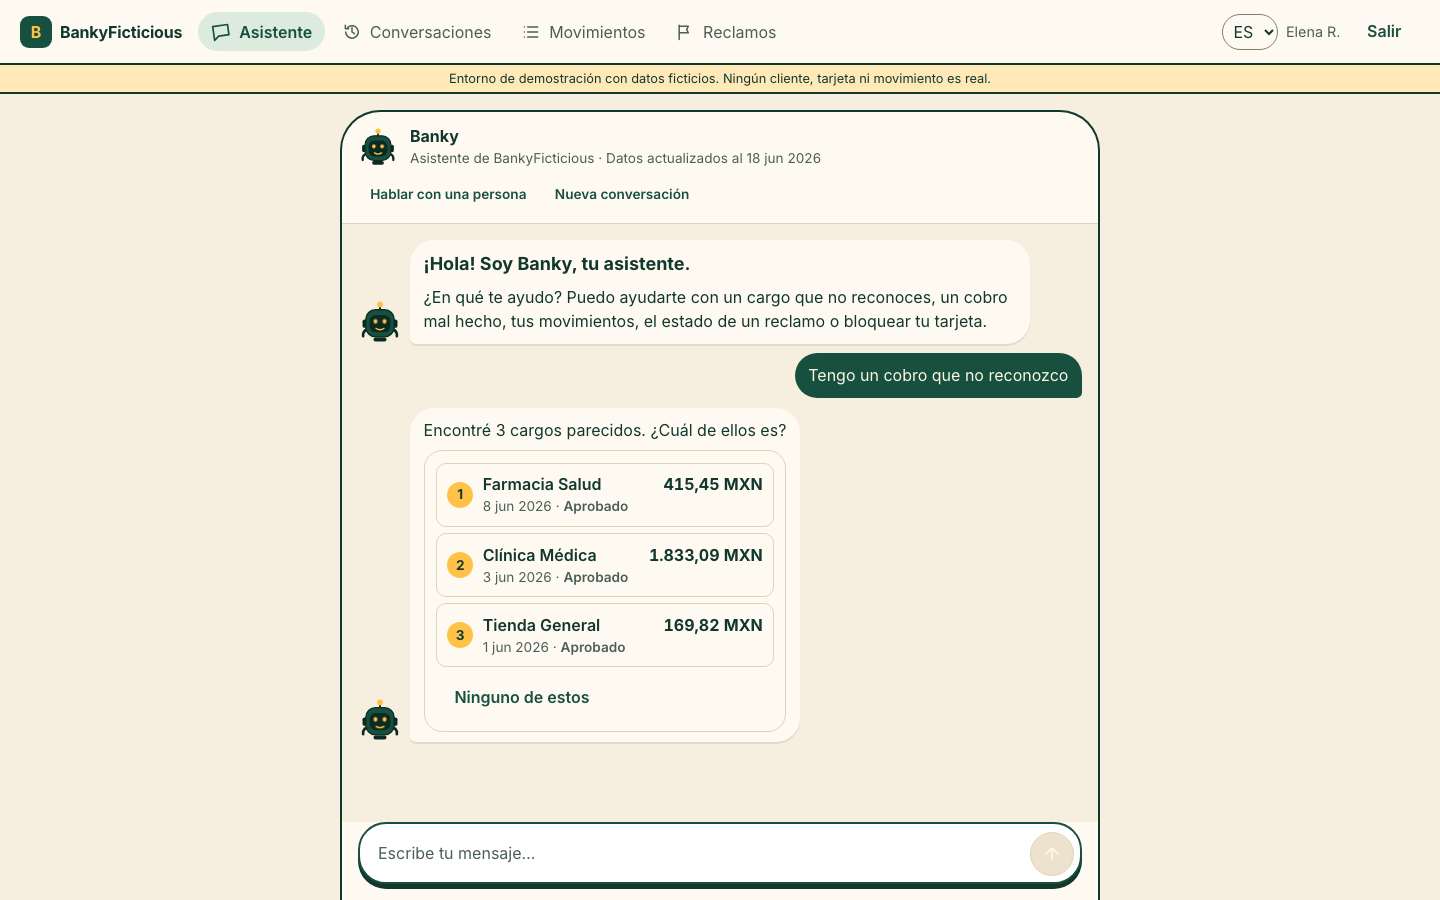
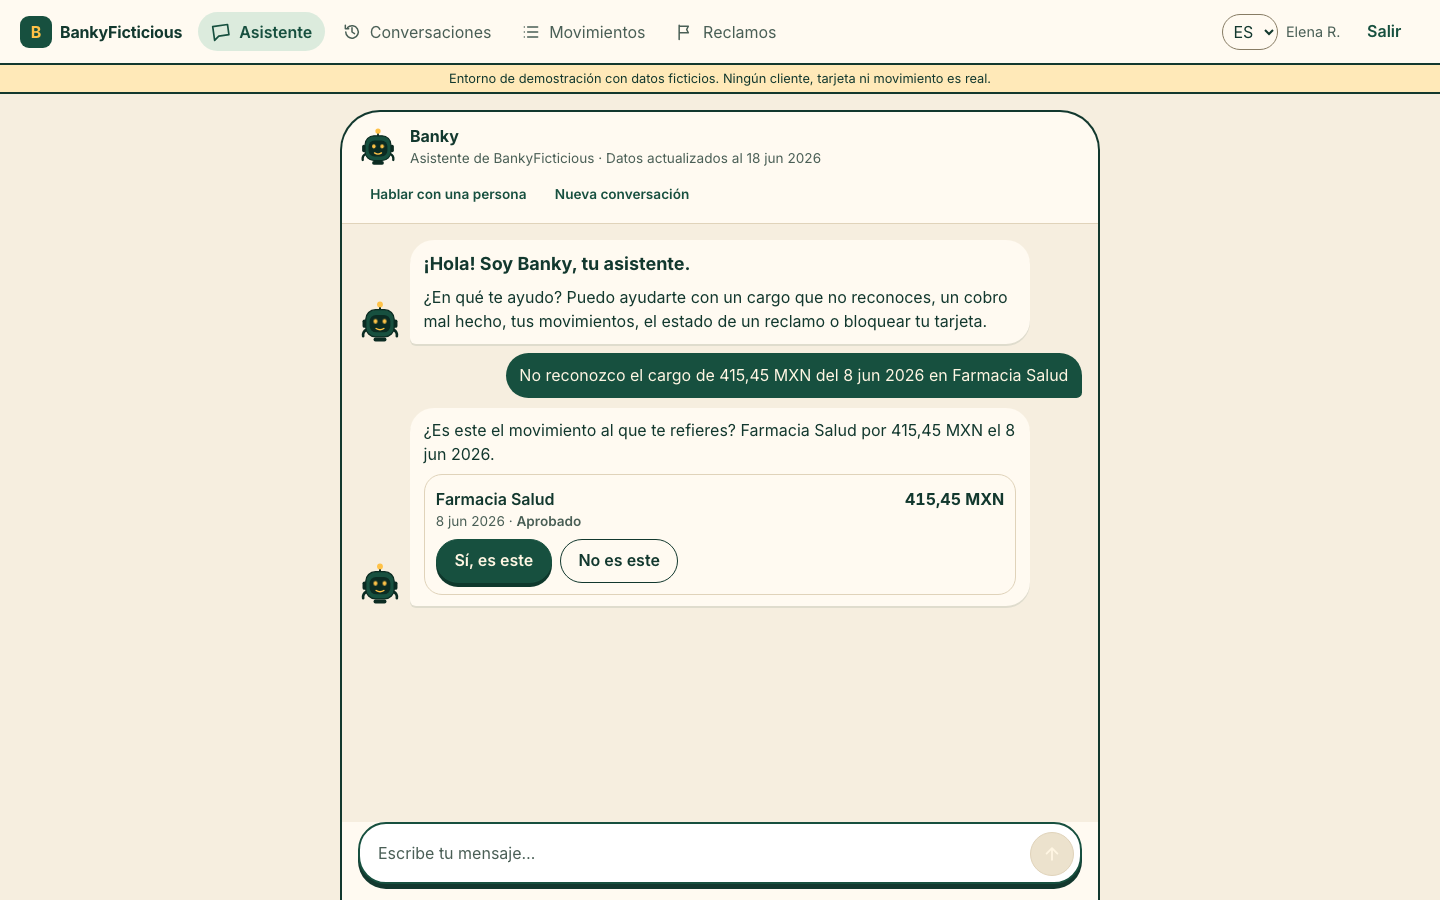
feat(frontend): own cards for the ask-for-a-detail and no-match replies (#112)
The backend now sends `need_detail` and `no_match` notices (#108, issue #102). Each gets its own design in the chat.

- **"Asks for a detail" (`need_detail`):** a card with the assistant's question and the three things that help (amount, merchant, approximate date), followed by its options. No movements are shown.
- **"No matches" (`no_match`):** a card that says nothing matched, shows only the criteria the customer actually gave and the date the data reaches (`criteria`, `data_as_of`), followed by "Darte otro dato", "Ver mis últimos movimientos" and "Hablar con una persona".
- Banky's expression follows the state: listening when it asks, searching when nothing matched. Other notices keep the plain notice look.
- Scripts updated for the ask-first behaviour: screenshots (two new scenarios), the e2e customer journey (asserts need_detail, then no_match, then a real match), and the video walkthrough with `docs/demo-script.md` (the ambiguous journey now shows "asks for a detail" first).
- e2e login now retries when the login rate limit answers 429 (it made the last test of long runs flaky).
- Verified against the real backend from #108 (fake LLM): 78 component tests (3 new), e2e 10 passed before the retry change (one flaky login timeout, fixed) and the accessibility suite 7 passed after it; `demo record` ran end to end.

Closes #102.

Closes #111

Changed region(s): [[0.25, 0.3733, 0.75, 0.7778], [0.625, 0.5289, 0.6875, 0.56], [0.25, 0.7778, 0.2812, 0.84]]

diff --git a/frontend/src/components/blocks/BlockView.tsx b/frontend/src/components/blocks/BlockView.tsx
@@ -2,7 +2,7 @@
 // Reglas: el texto es texto plano (React escapa; nada de HTML inyectado); solo los bloques del ÚLTIMO turno aceptan clics;
 // cada botón se deshabilita al primer clic; "listo" solo con un result verified: true.
 import { useState } from "react";
-import type { Action, Block, CandidateListBlock, ConversationState, Lang, ResultBlock, TxView } from "../../api/types";
+import type { Action, Block, CandidateListBlock, ConversationState, Lang, NoticeBlock, ResultBlock, TxView } from "../../api/types";
 import { formatDate } from "../../lib/format";
 import { T } from "../../lib/i18n";
 import CopyRef from "../CopyRef";
@@ -117,6 +117,38 @@ function QuickOptions({ options, active, onAction }: { options: { label: string;
   );
 }
 
+/** "Pide un dato" (need_detail) y "sin coincidencias" (no_match): el asistente dice la verdad con claridad en vez de
+ *  mostrar movimientos que no coinciden. El texto viene del backend; aquí solo se le da forma y se muestra qué se buscó. */
+function ClarifyCard({ block, lang }: { block: NoticeBlock; lang: Lang }) {
+  const c = T[lang].chat;
+  const noMatch = block.code === "no_match";
+  const searched = noMatch && block.criteria
+    ? ([["merchant", c.noMatch.merchant], ["amount", c.noMatch.amount], ["date", c.noMatch.date]] as const)
+        .filter(([k]) => block.criteria![k] !== null && block.criteria![k] !== undefined && block.criteria![k] !== "")
+    : [];
+  return (
+    <div className={`clarify ${noMatch ? "no-match" : "need-detail"}`} data-code={block.code}>
+      <span className="clarify-art" aria-hidden="true"><Icon name={noMatch ? "searchOff" : "question"} /></span>
+      <div className="clarify-body">
+        <p className="bubble-text">{block.text}</p>
+        {noMatch ? (
+          (searched.length > 0 || block.data_as_of) && (
+            <dl className="clarify-facts">
+              {searched.map(([k, label]) => <div key={k}><dt>{label}</dt><dd>{String(block.criteria![k])}</dd></div>)}
+              {block.data_as_of && <div className="as-of"><dt className="sr-only">{c.noMatch.searched}</dt><dd>{c.noMatch.asOf(formatDate(block.data_as_of, lang))}</dd></div>}
+            </dl>
+          )
+        ) : (
+          <>
+            <p className="muted small clarify-hint">{c.needDetail.hint}</p>
+            <ul className="clarify-facts">{c.needDetail.items.map((x) => <li key={x}>{x}</li>)}</ul>
+          </>
+        )}
+      </div>
+    </div>
+  );
+}
+
 function Result({ block, lang }: { block: ResultBlock; lang: Lang }) {
   const t = T[lang];
   const ok = block.status === "success" && block.verified;          // "listo" solo con verified: true
@@ -151,6 +183,7 @@ export default function BlockView({ block, lang, state, active, onAction }: Bloc
         ? <p><a className="btn secondary" href={block.url} target="_blank" rel="noopener noreferrer">{block.label}</a></p>
         : null;
     case "notice":
+      if (block.code === "need_detail" || block.code === "no_match") return <ClarifyCard block={block} lang={lang} />;
       return (
         <p className={`notice ${block.level === "warning" ? "warning" : "info"}`} data-code={block.code}>
           <span className="notice-icon" aria-hidden="true">{block.level === "warning" ? "!" : "i"}</span><span>{block.text}</span>

diff --git a/frontend/src/components/__tests__/BlockView.test.tsx b/frontend/src/components/__tests__/BlockView.test.tsx
@@ -1,6 +1,6 @@
 import { cleanup, fireEvent, render, screen } from "@testing-library/react";
 import { afterEach, describe, expect, it, vi } from "vitest";
-import type { CandidateListBlock, QuickRepliesBlock, ResultBlock, TxView } from "../../api/types";
+import type { CandidateListBlock, NoticeBlock, QuickRepliesBlock, ResultBlock, TxView } from "../../api/types";
 import BlockView from "../blocks/BlockView";
 
 afterEach(cleanup);
@@ -123,5 +123,34 @@ describe("BlockView", () => {
     const { container } = render(<BlockView block={block} lang="es" state="inicio" active onAction={vi.fn()} />);
     expect(container.querySelector(".options")).toBeNull();
     expect(container.querySelectorAll(".quick .btn")).toHaveLength(2);
+  });
+
+  it("need_detail: asks for a detail with its own card and never lists movements", () => {
+    const block: NoticeBlock = { type: "notice", level: "info", code: "need_detail", text: "Claro, te ayudo. ¿Me das algún dato del cargo: el monto, el comercio o la fecha aproximada?" };
+    const { container } = render(<BlockView block={block} lang="es" state="aclarando" active onAction={vi.fn()} />);
+    expect(container.querySelector(".clarify.need-detail")).toBeTruthy();
+    expect(screen.getByText(/¿Me das algún dato del cargo/)).toBeTruthy();
+    expect(screen.getAllByRole("listitem").map((x) => x.textContent)).toEqual(["El monto", "El comercio", "La fecha aproximada"]);
+    expect(container.querySelector(".choice, .tx-line")).toBeNull();
+  });
+
+  it("no_match: says nothing matched and shows only the criteria the customer gave, with the data date", () => {
+    const block: NoticeBlock = { type: "notice", level: "info", code: "no_match", text: "No encontré cargos de Facebook en tus movimientos hasta el 18 jun 2026.",
+      criteria: { merchant: "Facebook", amount: null, date: null }, data_as_of: "2026-06-18" };
+    const { container } = render(<BlockView block={block} lang="es" state="aclarando" active onAction={vi.fn()} />);
+    expect(container.querySelector(".clarify.no-match")).toBeTruthy();
+    expect(screen.getByText("No encontré cargos de Facebook en tus movimientos hasta el 18 jun 2026.")).toBeTruthy();
+    expect(screen.getByText("Comercio")).toBeTruthy();
+    expect(screen.getByText("Facebook")).toBeTruthy();
+    expect(screen.queryByText("Monto")).toBeNull();                       // lo que el cliente no dio no se inventa
+    expect(screen.queryByText("Fecha")).toBeNull();
+    expect(container.querySelector(".as-of")?.textContent).toMatch(/Movimientos hasta el 18 jun 2026/);
+  });
+
+  it("other notices keep the plain notice look", () => {
+    const block: NoticeBlock = { type: "notice", level: "warning", code: "pending_transaction", text: "El cargo está pendiente." };
+    const { container } = render(<BlockView block={block} lang="es" state="inicio" active onAction={vi.fn()} />);
+    expect(container.querySelector(".clarify")).toBeNull();
+    expect(container.querySelector(".notice.warning")).toBeTruthy();
   });
 });

diff --git a/frontend/e2e/helpers.ts b/frontend/e2e/helpers.ts
@@ -2,13 +2,22 @@ import { expect, type Page } from "@playwright/test";
 
 export const PASSWORD = process.env.DEMO_PASSWORD ?? "";
 
+/** Inicia sesión. Si el límite de logins por IP responde 429 (muchas pruebas seguidas), espera y reintenta. */
 export async function login(page: Page, username: string, agent = false) {
   expect(PASSWORD, "DEMO_PASSWORD debe venir por entorno").not.toBe("");
-  await page.goto(agent ? "/login?perfil=agente" : "/login");
-  await page.getByRole("textbox", { name: "Usuario" }).fill(username);
-  await page.locator('input[type="password"]').fill(PASSWORD);
-  await page.getByRole("button", { name: "Entrar" }).click();
-  await page.waitForURL((u) => !u.pathname.startsWith("/login"));
+  for (let attempt = 0; ; attempt += 1) {
+    await page.goto(agent ? "/login?perfil=agente" : "/login");
+    await page.getByRole("textbox", { name: "Usuario" }).fill(username);
+    await page.locator('input[type="password"]').fill(PASSWORD);
+    await page.getByRole("button", { name: "Entrar" }).click();
+    try {
+      await page.waitForURL((u) => !u.pathname.startsWith("/login"), { timeout: 8000 });
+      return;
+    } catch (e) {
+      if (attempt >= 2) throw e;
+      await page.waitForTimeout(25_000);
+    }
+  }
 }
 
 export async function logout(page: Page) {
@@ -23,4 +32,11 @@ export async function say(page: Page, text: string) {
   await page.getByRole("button", { name: "Enviar" }).click();
   await expect(page.locator(".messages")).toHaveAttribute("aria-busy", "false");      // el indicador de espera ya no está
   await expect(page.locator(".messages > .msg.assistant")).toHaveCount(before + 1);
+}
+
+/** Mensaje de reclamo con un dato real del usuario (monto, fecha y comercio de su movimiento más reciente). */
+export async function claimMessage(page: Page): Promise<string> {
+  const d = await (await page.request.get("/api/me/transactions?lang=es")).json();
+  const tx = d.transactions[0];
+  return `No reconozco el cargo de ${tx.amount_label} del ${tx.date_label} en ${tx.label}`;
 }

diff --git a/frontend/src/styles.css b/frontend/src/styles.css
@@ -804,3 +804,22 @@ body { font-family: var(--font-body); }
   .demo-group .pick-short { display: inline; font-family: var(--font-mono); }
   .demo-pick { min-width: 44px; justify-content: center; }
 }
+
+/* ---- "pide un dato" y "sin coincidencias": tarjeta propia, honesta y clara */
+.clarify { display: grid; grid-template-columns: auto 1fr; gap: var(--s-3); align-items: start; padding: var(--s-3) var(--s-4); border: 1.5px solid var(--text);
+  border-radius: 26px 20px 28px 18px; background: var(--surface); box-shadow: 0 4px 0 var(--text); animation: pop 420ms var(--ease-spring); }
+.clarify.no-match { background: var(--warn-bg); }
+.clarify-art { display: grid; place-items: center; width: 48px; height: 48px; background: var(--sun); color: var(--text); border-radius: 46% 54% 58% 42% / 52% 44% 56% 48%; }
+.clarify.no-match .clarify-art { background: var(--surface); border: 1.5px solid var(--text); }
+.clarify-art .icon { width: 26px; height: 26px; }
+.clarify-body { display: grid; gap: var(--s-2); min-width: 0; }
+.clarify-hint { margin: 0; }
+.clarify-facts { list-style: none; margin: 0; padding: 0; display: flex; flex-wrap: wrap; gap: var(--s-2); }
+.clarify-facts li, .clarify-facts div { display: inline-flex; align-items: baseline; gap: 0.35rem; padding: 0.2rem 0.7rem; border-radius: var(--r-full); font-size: var(--text-sm);
+  background: var(--accent-soft); color: var(--text); font-weight: 600; }
+.clarify.no-match .clarify-facts div { background: var(--surface); border: 1.5px solid var(--line-strong); }
+.clarify-facts dt { font-weight: 400; color: var(--muted); }
+.clarify-facts dd { margin: 0; }
+.clarify-facts .as-of { background: transparent; border-style: dashed; font-weight: 400; color: var(--muted); }
+.clarify + .options { margin-top: var(--s-2); }
+@media (max-width: 720px) { .clarify { grid-template-columns: 1fr; padding: var(--s-3); } .clarify-art { width: 40px; height: 40px; } }

diff --git a/frontend/src/lib/i18n.ts b/frontend/src/lib/i18n.ts
@@ -118,6 +118,8 @@ const es = {
     modeChosenText: "Seguimos por escrito. Puedes cambiar a voz cuando quieras.",
     modeChosenVoice: "Seguimos por voz. Las confirmaciones siempre se hacen con un botón en pantalla.",
     phases: { understanding: "Entendiendo tu mensaje…", searching_transactions: "Buscando en tus movimientos…", checking_policy: "Revisando la política…", writing: "Escribiendo…" } as Record<string, string>,
+    needDetail: { hint: "Con uno de estos datos alcanza:", items: ["El monto", "El comercio", "La fecha aproximada"] },
+    noMatch: { searched: "Lo que busqué", merchant: "Comercio", amount: "Monto", date: "Fecha", asOf: (d: string) => `Movimientos hasta el ${d}` },
     copy: "Copiar",
     copied: "Copiado",
     copyRef: (ref: string) => `Copiar la referencia ${ref}`,
@@ -398,6 +400,8 @@ const pt: Dict = {
     modeChosenText: "Seguimos por escrito. Você pode mudar para voz quando quiser.",
     modeChosenVoice: "Seguimos por voz. As confirmações são sempre feitas com um botão na tela.",
     phases: { understanding: "Entendendo a sua mensagem…", searching_transactions: "Procurando nos seus lançamentos…", checking_policy: "Verificando a política…", writing: "Digitando…" },
+    needDetail: { hint: "Um destes dados já basta:", items: ["O valor", "O estabelecimento", "A data aproximada"] },
+    noMatch: { searched: "O que procurei", merchant: "Estabelecimento", amount: "Valor", date: "Data", asOf: (d: string) => `Lançamentos até ${d}` },
     copy: "Copiar",
     copied: "Copiado",
     copyRef: (ref: string) => `Copiar a referência ${ref}`,

diff --git a/frontend/e2e/journeys.e2e.ts b/frontend/e2e/journeys.e2e.ts
@@ -1,6 +1,6 @@
 // Los tres recorridos del producto, de punta a punta contra el backend real (LLM falso).
 import { expect, test } from "@playwright/test";
-import { login, logout, say } from "./helpers";
+import { claimMessage, login, logout, say } from "./helpers";
 
 test.describe.configure({ mode: "serial" });
 
@@ -22,7 +22,16 @@ test("cliente con un cargo claro: de la landing al reclamo verificado, con histo
   await expect(page.locator(".bubble.welcome")).toContainText("¡Hola! Soy Banky, tu asistente.");
   await expect(page.getByText(/Hablar por voz/)).toHaveCount(0);
 
-  await say(page, "No reconozco un cobro");
+  // sin monto, comercio ni fecha el asistente NO busca: pide un dato y no muestra movimientos
+  await say(page, "No reconozco un cargo");
+  await expect(page.locator(".clarify.need-detail")).toBeVisible();
+  await expect(page.locator(".choice, .tx-card")).toHaveCount(0);
+  // un comercio que no está en sus movimientos: lo dice, con lo que buscó, y ofrece opciones
+  await say(page, "Es un cargo de Facebook");
+  await expect(page.locator(".clarify.no-match")).toContainText("Facebook");
+  await expect(page.getByRole("button", { name: /Hablar con una persona/ }).last()).toBeEnabled();
+  // con un dato real, encuentra el movimiento
+  await say(page, await claimMessage(page));
   const first = page.locator(".choice").first();
   if (await first.isVisible()) await first.click();                           // varios candidatos: elige el primero
   await page.getByRole("button", { name: "Sí, es este" }).click();

diff --git a/frontend/src/components/Icon.tsx b/frontend/src/components/Icon.tsx
@@ -6,6 +6,8 @@ const PATHS: Record<string, string> = {
   flag: "M5 21V4m0 1h11l-2 4 2 4H5",
   ticket: "M4 8a2 2 0 0 1 2-2h12a2 2 0 0 1 2 2v2a2 2 0 0 0 0 4v2a2 2 0 0 1-2 2H6a2 2 0 0 1-2-2v-2a2 2 0 0 0 0-4zM14 6v12",
   search: "M11 18a7 7 0 1 0 0-14 7 7 0 0 0 0 14zM20 20l-4-4",
+  searchOff: "M11 18a7 7 0 1 0 0-14 7 7 0 0 0 0 14zM20 20l-4-4M8.5 8.5l5 5M13.5 8.5l-5 5",
+  question: "M9 9.2a3 3 0 1 1 4.6 2.6c-.9.6-1.6 1.2-1.6 2.4M12 18h.01M12 22a10 10 0 1 0 0-20 10 10 0 0 0 0 20z",
   person: "M12 12a4 4 0 1 0 0-8 4 4 0 0 0 0 8zM4.5 20a7.5 7.5 0 0 1 15 0",
   card: "M3 7a2 2 0 0 1 2-2h14a2 2 0 0 1 2 2v10a2 2 0 0 1-2 2H5a2 2 0 0 1-2-2zM3 10h18M7 15h4",
   check: "M5 12.5l4.5 4.5L19 7.5",

diff --git a/frontend/src/pages/ChatPage.tsx b/frontend/src/pages/ChatPage.tsx
@@ -49,6 +49,8 @@ function bankyFor(blocks: Block[] | undefined): BankyState {
   for (const b of blocks ?? []) {
     if (b.type === "result") return b.status === "success" && b.verified ? "happy" : "worried";
     if (b.type === "handoff_notice") return "handoff";
+    if (b.type === "notice" && b.code === "no_match") return "searching";      // buscó y no encontró: lo dice
+    if (b.type === "notice" && b.code === "need_detail") return "listening";   // falta un dato: lo pide y escucha
     if (b.type === "error" || (b.type === "notice" && b.level === "warning")) return "worried";
   }
   return "idle";

diff --git a/frontend/src/api/types.ts b/frontend/src/api/types.ts
@@ -153,8 +153,13 @@ export interface HandoffNoticeBlock {
 export interface NoticeBlock {
   type: "notice";
   level: "info" | "warning";
+  /** p. ej. need_detail (falta un dato: no se buscó) y no_match (se buscó y nada coincide); ver api-contract.md */
   code: string;
   text: string;
+  /** solo con no_match: lo que dio el cliente (null si no lo dio) */
+  criteria?: { merchant: string | null; amount: string | number | null; date: string | null };
+  /** solo con no_match: hasta qué día hay datos (AAAA-MM-DD) */
+  data_as_of?: string;
 }
 export interface ErrorBlock {
   type: "error";

diff --git a/frontend/playwright.config.ts b/frontend/playwright.config.ts
@@ -9,7 +9,7 @@ export default defineConfig({
   fullyParallel: false,
   workers: 1,
   retries: 0,
-  timeout: 45_000,
+  timeout: 120_000,          // deja margen para reintentar el login si el límite por IP responde 429
   reporter: [["list"]],
   use: { baseURL: process.env.BASE_URL ?? "http://127.0.0.1:5173", locale: "es", trace: "retain-on-failure" },
   projects: [

diff --git a/frontend/README.md b/frontend/README.md
@@ -58,7 +58,7 @@ DEMO_PASSWORD=… BASE_URL=http://127.0.0.1:5173 npm run e2e
 |---|---|---|
 | `/` | — | Landing de BankyFicticious: "Tengo un reclamo" (abre el chat; sin sesión pasa por el login), acceso de agentes (`/login?perfil=agente`), cómo funciona, qué puede y qué no puede hacer Banky, aviso de datos ficticios. Lighthouse (build de producción, 2026-10-02): landing y chat con rendimiento 98–100 y accesibilidad 100 en celular y escritorio. |
 | `/login` | — | Login en dos paneles. Con `DEMO_MODE` (`GET /api/demo/info`): aviso de entorno de demostración y tarjetas de usuarios demo con su escenario (clientes en `/login`, agentes y admin en `/login?perfil=agente`). La contraseña nunca está en el frontend: el aviso dice dónde está documentada. Con el modo apagado no hay aviso ni tarjetas. |
-| `/chat` | customer | Chat con todos los bloques del contrato. Una sola bienvenida (Banky se presenta y dice qué puede hacer); la opción de voz solo aparece si `GET /api/voice/config` la habilita (apagada: ni botón ni aviso); fase real del turno; respuestas rápidas como lista de opciones cuando el asistente pide un dato, no encuentra coincidencias o propone temas (`start_topic`); sin contadores de intentos; RCL copiable; "¿Te ayudé?" al cerrar. |
+| `/chat` | customer | Chat con todos los bloques del contrato. Una sola bienvenida (Banky se presenta y dice qué puede hacer); la opción de voz solo aparece si `GET /api/voice/config` la habilita (apagada: ni botón ni aviso); fase real del turno; tarjeta propia para "pide un dato" (`notice` `need_detail`) y "sin coincidencias" (`no_match`, con lo que se buscó y la fecha de los datos), seguida de sus opciones; respuestas rápidas como lista de opciones (`start_topic`); sin contadores de intentos; RCL copiable; "¿Te ayudé?" al cerrar. |
 | `/conversaciones` | customer | "Mis conversaciones": `GET /api/me/conversations` (paginado) con fecha, resumen, estado y referencias. El detalle (`/conversaciones/:id`) es de solo lectura y "Continuar sobre este tema" abre una conversación enlazada. |
 | `/movimientos` | customer | `GET /api/me/transactions` con filtros. "No reconozco este cargo" abre el chat con esa disputa (`dispute_transaction_id`). |
 | `/reclamos` | customer | `GET /api/me/cases`. |

diff --git a/docs/demo-script.md b/docs/demo-script.md
@@ -83,9 +83,10 @@ para mostrar la entrada desde la landing (la grabación automática los incluye 
 
 | # | Clic o texto | Qué se ve | Qué decir |
 |---|---|---|---|
-| 1 | Escribir: "No reconozco un cargo en mi tarjeta, yo no hice esa compra" | Una **lista de candidatos** (comercio, monto, fecha) y la pregunta "¿cuál es?" | Cuando hay duda, pregunta: no adivina ni actúa |
-| 2 | Elegir un cargo de la lista | El movimiento elegido y "¿es este?" | — |
-| 3 | **Sí, es este** → **Confirmar** | Resultado verificado con su `RCL-…` | El mismo control que en el recorrido 1 |
+| 1 | Escribir: "No reconozco un cargo en mi tarjeta" | La tarjeta **"pide un dato"**: el asistente no muestra movimientos; pregunta por el monto, el comercio o la fecha | Si falta un dato, lo pide: no adivina ni llama "parecidos" a movimientos cualquiera |
+| 2 | Escribir: "Es uno de como *(monto)*" (el monto de un cargo de "Movimientos") | Los cargos que coinciden con ese monto y la pregunta "¿cuál es?" (con uno solo, pregunta si es ese) | Solo muestra lo que coincide con lo que dijo el cliente, y dice con qué coincidió |
+| 3 | Elegir el cargo → **Sí, es este** → **Confirmar** | Resultado verificado con su `RCL-…` | El mismo control que en el recorrido 1 |
+| 4 | (Opcional, en otra conversación) Escribir: "Tengo un cargo no reconocido en Facebook" | La tarjeta **"sin coincidencias"**: dice que no encontró cargos de Facebook hasta la fecha de los datos y ofrece dar otro dato, ver los movimientos o hablar con una persona | Nunca afirma algo que los datos no respaldan |
 
 ### 3. Riesgo alto → agente → admin
 
